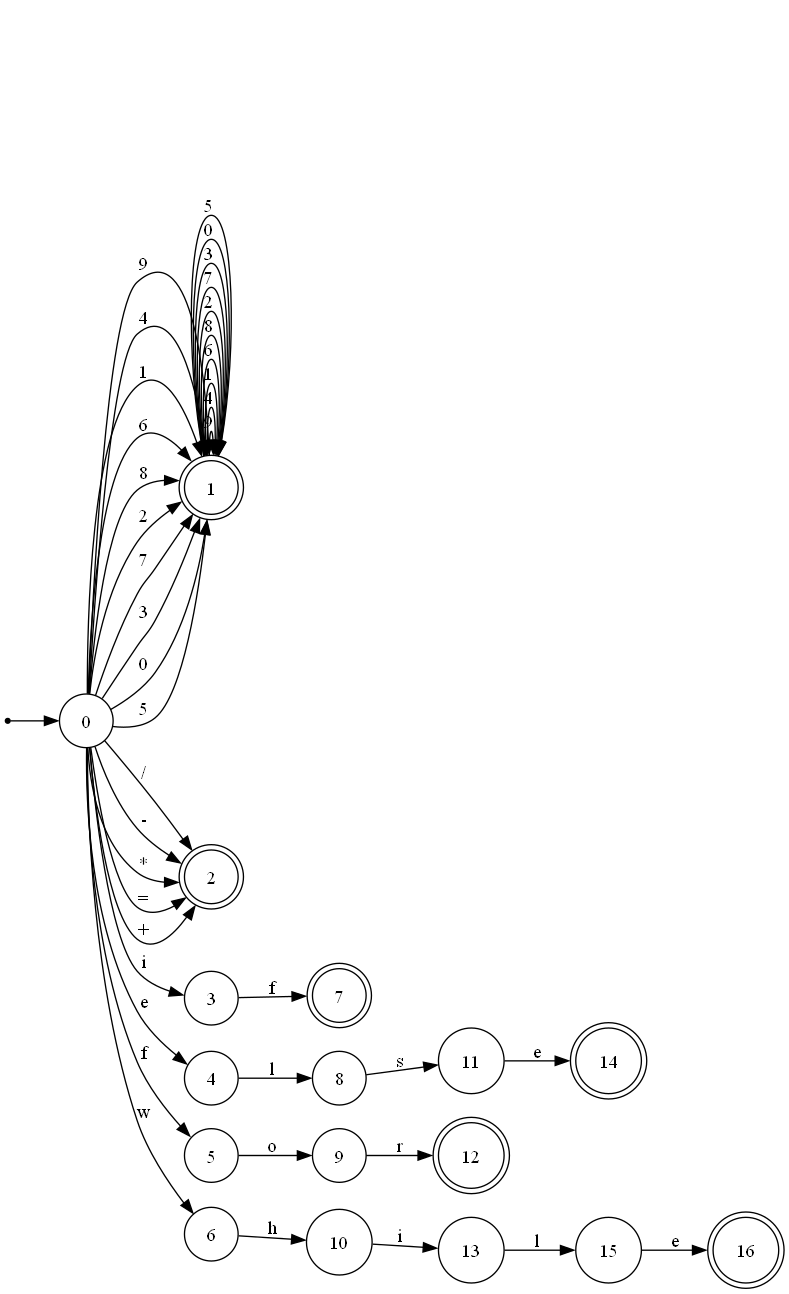
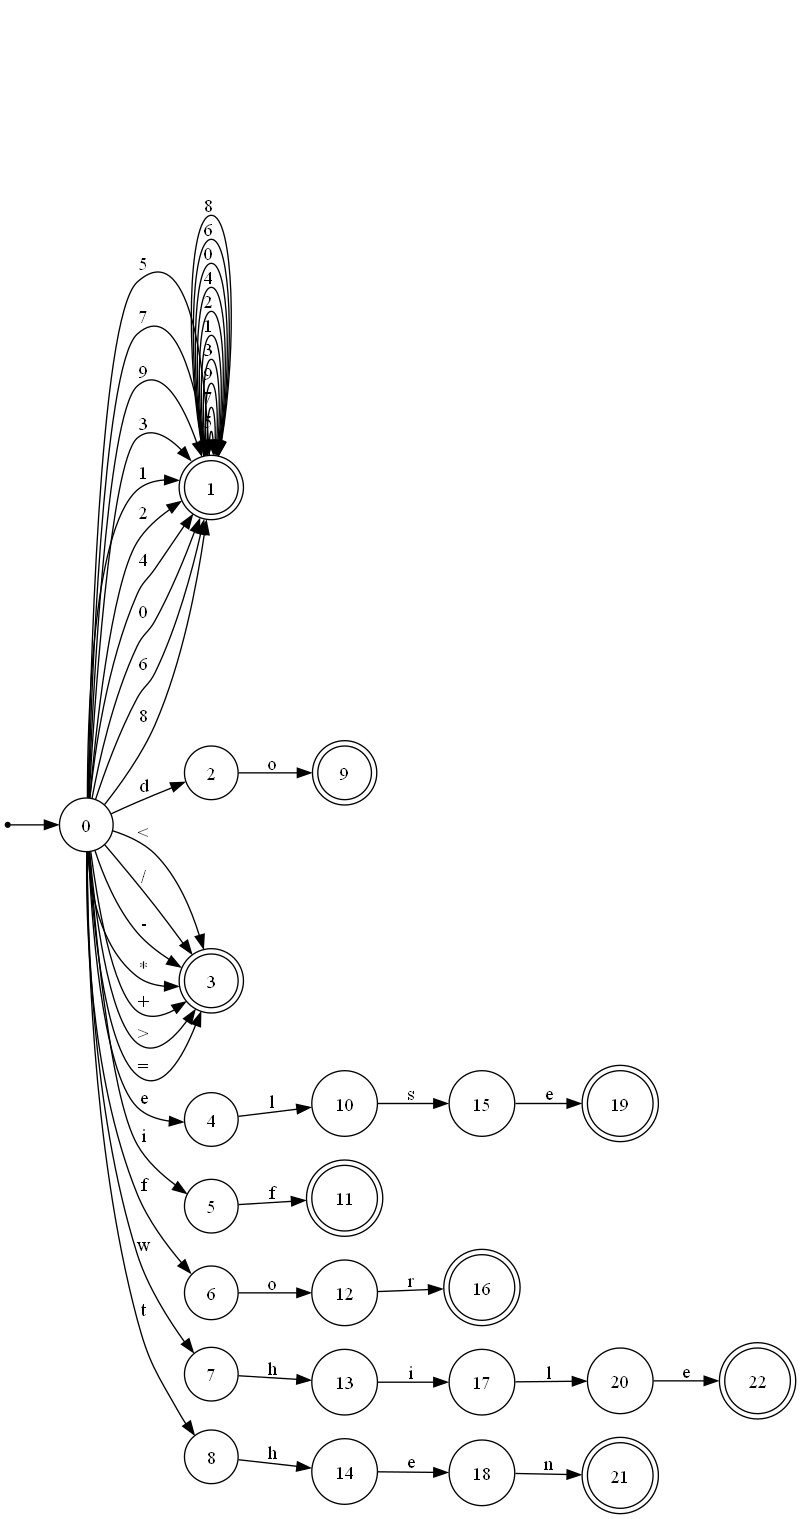
new

diff --git a/src/base.py b/src/base.py
@@ -314,12 +314,20 @@ def create_automate_complementaire():
     Automate_condition.ajout_etat(["4"])
     Automate_condition.ajout_etat(["5"])
     Automate_condition.ajout_etat(["6"], final=True)
+    Automate_condition.ajout_etat(["7"])
+    Automate_condition.ajout_etat(["8"])
+    Automate_condition.ajout_etat(["9"])
+    Automate_condition.ajout_etat(["10"], final=True)
     Automate_condition.ajout_transition(["0"], "i", ["1"])
     Automate_condition.ajout_transition(["1"], "f", ["2"])
     Automate_condition.ajout_transition(["0"], "e", ["3"])
     Automate_condition.ajout_transition(["3"], "l", ["4"])
     Automate_condition.ajout_transition(["4"], "s", ["5"])
     Automate_condition.ajout_transition(["5"], "e", ["6"])
+    Automate_condition.ajout_transition(["0"], "t", ["7"])
+    Automate_condition.ajout_transition(["7"], "h", ["8"])
+    Automate_condition.ajout_transition(["8"], "e", ["9"])
+    Automate_condition.ajout_transition(["9"], "n", ["10"])
     save(Automate_condition, "Automate_condition.af")
     to_png(Automate_condition, "Automate_condition.png")
 
@@ -337,6 +345,8 @@ def create_automate_complementaire():
     Automate_loop.ajout_etat(["6"])
     Automate_loop.ajout_etat(["7"])
     Automate_loop.ajout_etat(["8"], final=True)
+    Automate_loop.ajout_etat(["9"])
+    Automate_loop.ajout_etat(["10"], final=True)
     Automate_loop.ajout_transition(["0"], "f", ["1"])
     Automate_loop.ajout_transition(["1"], "o", ["2"])
     Automate_loop.ajout_transition(["2"], "r", ["3"])
@@ -345,6 +355,8 @@ def create_automate_complementaire():
     Automate_loop.ajout_transition(["5"], "i", ["6"])
     Automate_loop.ajout_transition(["6"], "l", ["7"])
     Automate_loop.ajout_transition(["7"], "e", ["8"])
+    Automate_loop.ajout_transition(["0"], "d", ["9"])
+    Automate_loop.ajout_transition(["9"], "o", ["10"])
     save(Automate_loop, "Automate_loop.af")
     to_png(Automate_loop, "Automate_loop.png")
 
@@ -392,9 +404,9 @@ def determine_type(res: list):
 alphabets = {
     "int": ["0", "1", "2", "3", "4", "5", "6", "7", "8", "9"],
     "boolean": ["T", "r", "u", "e", "F", "a", "l", "s", "e"],
-    "operators": ["+", "-", "*", "/", "="],
+    "operators": ["+", "-", "*", "/", "=", ">", "<"],
     "variables": ["a", "b", "c", "d", "e", "f", "g", "h", "i", "j", "k", "l", "m", "n", "o", "p", "q", "r", "s", "t", "u", "v", "w", "x", "y", "z"],
-    "conditions": ["i", "f", "e", "l", "s", "e"],
-    "loops": ["f", "o", "r",  "w", "h", "i", "l", "e"],
+    "conditions": ["i", "f", "e", "l", "s", "e", "t", "h", "e", "n"],
+    "loops": ["f", "o", "r",  "w", "h", "i", "l", "e", "d", "o"],
     "reserved_words": ["then", "in",]
 }

diff --git a/src/Automate.py b/src/Automate.py
@@ -368,7 +368,7 @@ class Automate():
             return True
 
         elif (tuple(etat_depart), symbole) in self.transitions and etat_arrive in self.f_transitions(etat_depart, symbole):
-            print("transition deja presente dans l'automate")
+            # print("transition deja presente dans l'automate")
             return False
 
     # Ajout du type a l'automate

diff --git a/src/test.py b/src/test.py
@@ -23,4 +23,5 @@ print(reconnaissance_texte(F, texte))
 
 res = reconnaissance_texte(F, texte)
 
+print("\n\n")
 print(determine_type(res))
